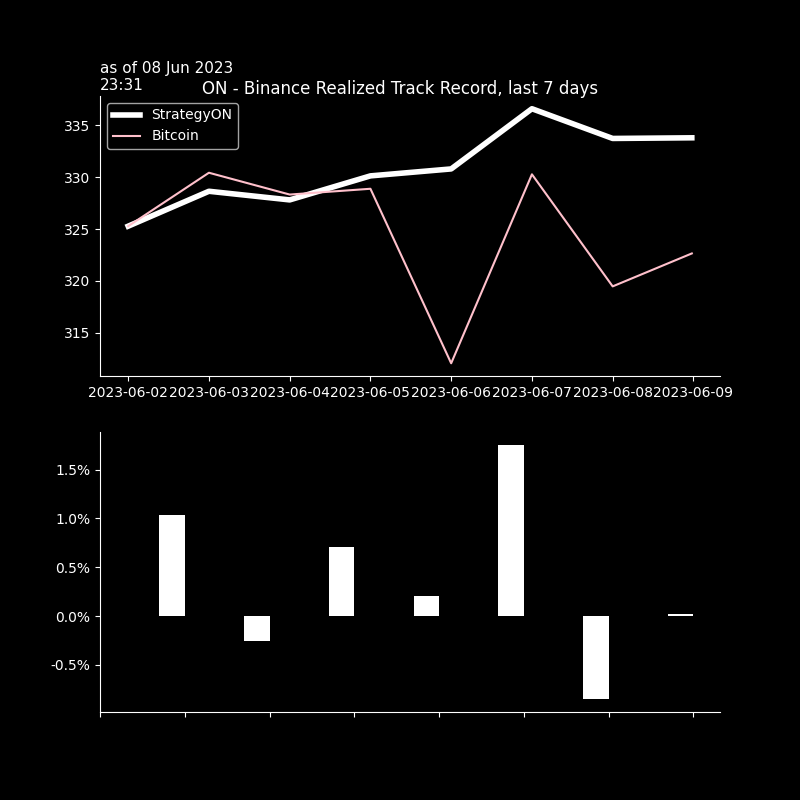
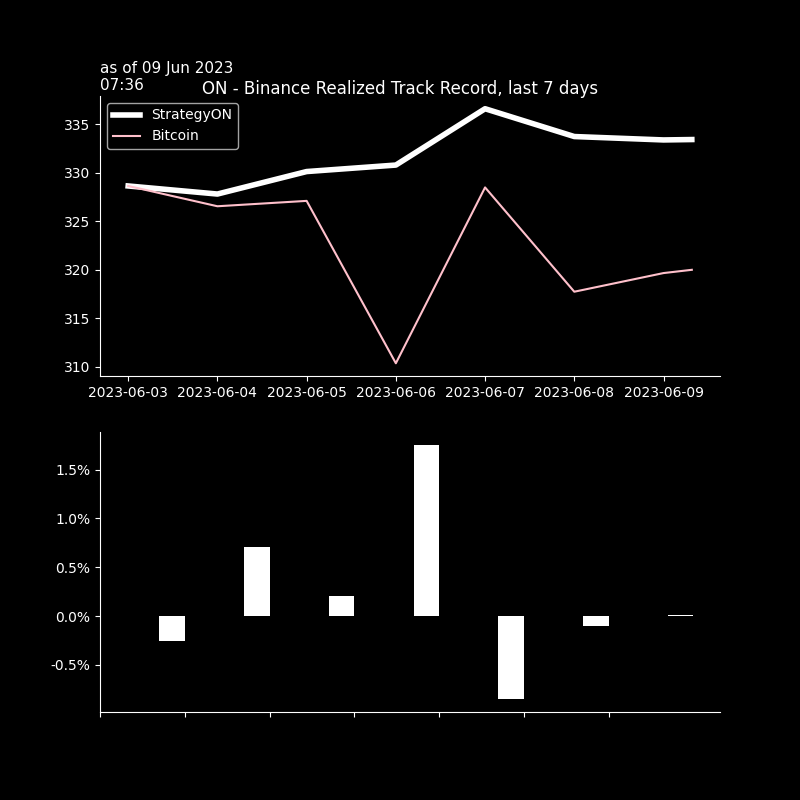
seb_commit

diff --git a/crypto/graphs/bt_trades_book.htmltrade_trades_book.html b/crypto/graphs/bt_trades_book.htmltrade_trades_book.html
@@ -37,38 +37,38 @@
   </thead>
   <tbody>
     <tr>
-      <th>XRPUSDT</th>
-      <td>0.5208</td>
-      <td>2023-06-08 02:33:23</td>
-      <td>163.000</td>
-      <td>$84.9</td>
+      <th>BTCUSDT</th>
+      <td>26509.3000</td>
+      <td>2023-06-09 06:35:49</td>
+      <td>-0.002</td>
+      <td>$-53.0</td>
       <td>$0.01</td>
       <td>1.6</td>
-      <td>-0.4</td>
-      <td>0.52105</td>
-      <td>2023-06-08 03:32</td>
+      <td>0.2</td>
+      <td>26507.65000</td>
+      <td>2023-06-09 07:35</td>
       <td>0.0</td>
-      <td>5.0</td>
-      <td>.5206</td>
+      <td>0.0</td>
+      <td>26518.8</td>
       <td>-0.0</td>
       <td>-4.0</td>
     </tr>
     <tr>
-      <th>BTCUSDT</th>
-      <td>26417.5000</td>
-      <td>2023-06-08 02:33:25</td>
-      <td>0.004</td>
-      <td>$105.7</td>
-      <td>$0.02</td>
+      <th>XRPUSDT</th>
+      <td>0.5236</td>
+      <td>2023-06-09 06:36:25</td>
+      <td>-81.500</td>
+      <td>$-42.7</td>
+      <td>$0.01</td>
       <td>1.6</td>
-      <td>-0.2</td>
-      <td>26420.15000</td>
-      <td>2023-06-08 03:32</td>
-      <td>0.0</td>
-      <td>1.0</td>
-      <td>26414.4</td>
+      <td>0.2</td>
+      <td>0.52365</td>
+      <td>2023-06-09 07:35</td>
       <td>-0.0</td>
-      <td>-1.0</td>
+      <td>-0.0</td>
+      <td>.5237</td>
+      <td>-0.0</td>
+      <td>-2.0</td>
     </tr>
   </tbody>
 </table>

diff --git a/crypto/graphs/bt_trades_recap.htmltrade_trades_recap.html b/crypto/graphs/bt_trades_recap.htmltrade_trades_recap.html
@@ -9,32 +9,32 @@
   <tbody>
     <tr>
       <th>as of</th>
-      <td>08Jun 02:33&gt;&gt;02:33</td>
+      <td>09Jun 06:35&gt;&gt;06:36</td>
       <td>#trades: 2</td>
     </tr>
     <tr>
       <th>trade net</th>
-      <td>+191.0</td>
-      <td>+57.4%</td>
+      <td>-96.0</td>
+      <td>-28.8%</td>
     </tr>
     <tr>
       <th>trade gross</th>
-      <td>+191.0</td>
-      <td>+57.4%</td>
+      <td>+96.0</td>
+      <td>+28.8%</td>
     </tr>
     <tr>
       <th>BUY</th>
-      <td>+191.0</td>
-      <td>+57.4%</td>
-    </tr>
-    <tr>
-      <th>SELL</th>
       <td>+0.0</td>
       <td>+0.0%</td>
     </tr>
     <tr>
+      <th>SELL</th>
+      <td>-96.0</td>
+      <td>-28.8%</td>
+    </tr>
+    <tr>
       <th>fees</th>
-      <td>$ 0.03</td>
+      <td>$ 0.015</td>
       <td>1.6bp</td>
     </tr>
   </tbody>

diff --git a/crypto/graphs/bt_trades_pnlD_recap.htmltrade_trades_pnlD_recap.html b/crypto/graphs/bt_trades_pnlD_recap.htmltrade_trades_pnlD_recap.html
@@ -1,7 +1,7 @@
 <table border="1" class="dataframe">
   <thead>
     <tr style="text-align: right;">
-      <th>08 Jun 03:33</th>
+      <th>09 Jun 07:36</th>
       <th>realizedPnl</th>
       <th>PnLvsArrival</th>
       <th>PnLvsLast</th>
@@ -10,20 +10,20 @@
   <tbody>
     <tr>
       <th>in$</th>
-      <td>-0.6</td>
-      <td>0.1</td>
+      <td>0.4</td>
+      <td>0.0</td>
       <td>-0.0</td>
     </tr>
     <tr>
-      <th>in bp 190 traded</th>
-      <td>-34 bp</td>
-      <td>3 bp</td>
-      <td>-2 bp</td>
+      <th>in bp 95 traded</th>
+      <td>43 bp</td>
+      <td>0 bp</td>
+      <td>-3 bp</td>
     </tr>
     <tr>
       <th>in bp 333 AUMs</th>
-      <td>-19 bp</td>
-      <td>2 bp</td>
+      <td>12 bp</td>
+      <td>0 bp</td>
       <td>-1 bp</td>
     </tr>
   </tbody>
